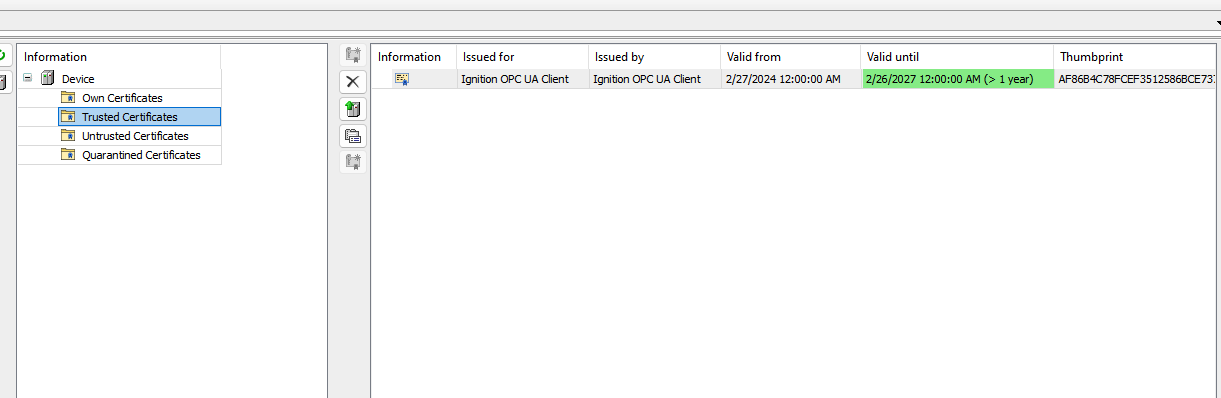
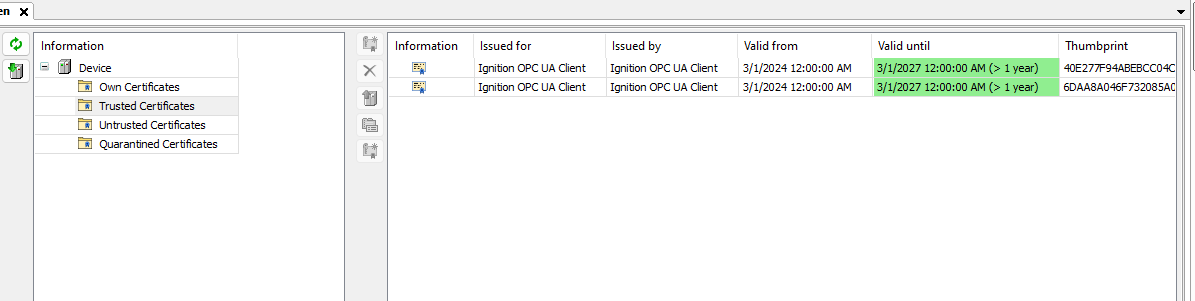
Initial build document.

Changed region(s): [[0.0, 0.0, 1.0, 1.0], [0.2787, 0.4784, 0.3406, 0.5382]]

diff --git a/Opto22/Codesys/groov_epic_rio_setup.md b/Opto22/Codesys/groov_epic_rio_setup.md
@@ -82,8 +82,8 @@ ___
 7. Follow the sub steps below to download a working program to the device.
    1. Compile the code to check for errors by using the **Generate Code** tool from the **Build Tab**. 
    2. Select the **Communication Settings** section from the **Device View Page** and add a device to the **Gateway** 
-      by scanning the network with the **Scan Network** button or manually enter the IP address of the device and then
-      click the device icon above where the IP address was entered to scan for the device.  
+      by scanning the network with the **Scan Network** button or manually entering the IP address of the device 
+      and pressing **enter**.  
       See the image below for reference:    
       ![](img/device_communication_settings.png)    
    3. Select the **Ethernet Adapter** that was added from **Step 4** and set the network interface to the local host 
@@ -111,20 +111,24 @@ Perform the following to add a **Symbol Configuration** object in the offline mo
    See the image below for reference:   
    ![](img/symbol_configuration_tag_build.png)  
 4. Download the new configurations.
-5. Create a Codesys OPC UA Server certificate on the device, using the following path and steps:  
-   1. Use the following path to generate 
-       
-      > **View/Security Screen/Devices/Device**  
-     
-      NOTE: If **NO** device information is available, then click the **Refresh Button** 
-            recheck the available list of devices, see the image below for reference:
-      ![](img/refresh_opcua_device_certificates.png)
-   2. Generate a certificate for the **OPC-UA Server**, **Encrypted Communication**, and **Encrypted Application**,
+5. Create a Codesys OPC UA Server certificate on the device, using the following sub steps:  
+   1. Launch the **Security Screen** from the **View Tab**. 
+      See the image below for reference:  
+      ![](img/security_view_screen.png)     
+   2. Select the **Devices Tab** and click the **Refresh Button** to check the available list of devices.  
+      See the image below for reference:   
+       ![](img/refresh_opcua_device_certificates.png)   
+      **NOTE:** If the **Devices Tab** isn't shown when launching the **Security Screen** then
+                the **CODESYS Security Agent Package** will need to be installed using the 
+                **CODESYS Installer Application** and then selecting the Browse Tab from the Add-ons section.   
+      See the image below for reference:    
+      ![](img/codesys_installer.png)   
+   3. Generate a certificate for the **OPC-UA Server**, **Encrypted Communication**, and **Encrypted Application**,
      see image below for reference:  
      ![](img/create_opcua_certificate.png)    
-   3. Set the **Key length = 4096** and **Validated period = max days (3650)**, see image below for reference:  
+   4. Set the **Key length = 4096** and **Validated period = max days (3650)**, see image below for reference:  
     ![](img/certificate_settings.png)  
-   4. Make note of the validation period for each certificate as in the image below:    
+   5. Make note of the validation period for each certificate as in the image below:    
       ![](img/certificate_validation_information.png)   
 
 6. Goto the Ignition Gateway where the OPC connection will be created, and select **Create new OPC Connection**.
@@ -141,14 +145,9 @@ Perform the following to add a **Symbol Configuration** object in the offline mo
         Security Policy and Mode Configuration = {name = opc.tcp://IPv4_Address:4840/discovery, Policy = Basic256Sha256, Mode = SignAndEncrypt}   
       
       See the image below for reference:   
-      ![](img/select_opcua_connection.png)    
-       
-      **NOTE 1:** If there's no option to set the Security Policy and Mode, then select **Skip to Advanced Configuration**.   
+      ![](img/select_opcua_connection.png)
       
-      See the image below for reference:   
-      ![](img/opcua_connect_advanced_config.png)   
-      
-      **NOTE 2:** The connection will fault out because the certificate isn't trusted yet in Codesys.   
+      **NOTE:** The connection will fault out because the certificate isn't trusted yet in CODESYS.   
    
 7. Goto the CODESYS IDE and trust the **Ignition OPC UA Client** certificate using the following sub steps:  
    1. Check that the **Ignition OPC UA Client** certificate is visible under the **Quarantined Certificates** folder
@@ -160,22 +159,24 @@ Perform the following to add a **Symbol Configuration** object in the offline mo
       ![](img/ignition_quarantined_certificates.png)   
    
    2. Move the **Ignition OPC UA Client** certificate from **Quarantined Certificates** to the **Trusted Certificates**
-      folder.  
-      
-      See the image below for reference:    
+      folder.
+      If there exist an **Ignition MASTER/BACKUP** pair, then two certificates will need to be **Trusted**. 
+   
+      See the image below that shows two trusted certificates for **Ignition MASTER/BACKUP** pair:    
       ![](img/ignition_trusted_certificates.png)   
    
    **NOTE:** If the certificates are not being quarantined in the CODESYS IDE, then it's possible 
              that a power cycle will need to be performed on the GROOV RIO/EPIC.   
    
 8. Goto the Ignition Gateway and trust the CODESYS OPC UA Server certificate, using the following sub steps:  
-   1. Navigate to the **Client Security** page and trust the quarantined Codesys OPC UA Server certificate using 
+   1. Navigate to the **Client Security** page and trust the **Quarantined Codesys OPC UA Server Certificate** using 
       the following path:   
       
       > Config/OPC UA/Security/Client Tab     
 
       See the image below for reference:    
       ![](img/codesys_quarantined_certificates.png)     
+   **NOTE:** If there exist an **Ignition MASTER/BACKUP pair**, then goto each gateway and **Trust** the certificate.  
    2. Verify the OPC client connection was established to the CODESYS OPC UA Server, using the following path:  
     
       > Config/OPC Client/OPC Connections  
